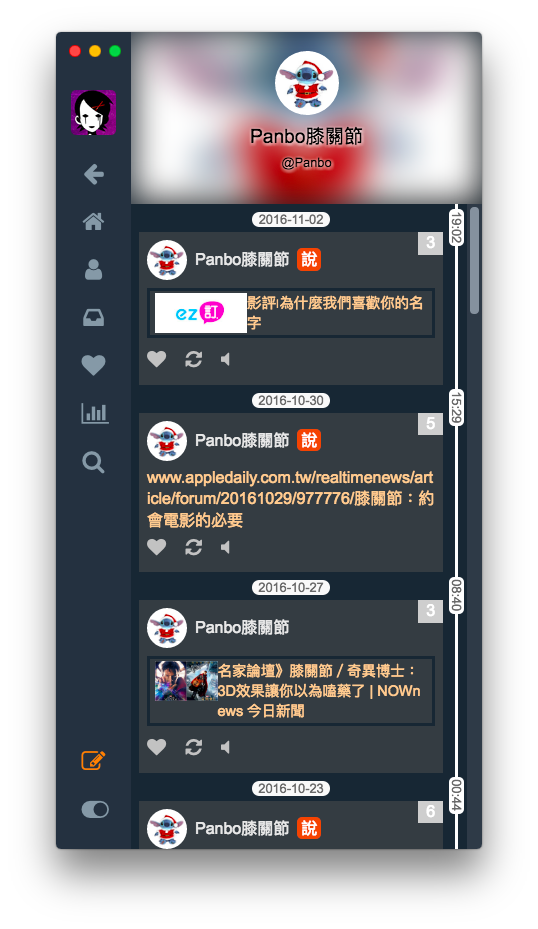
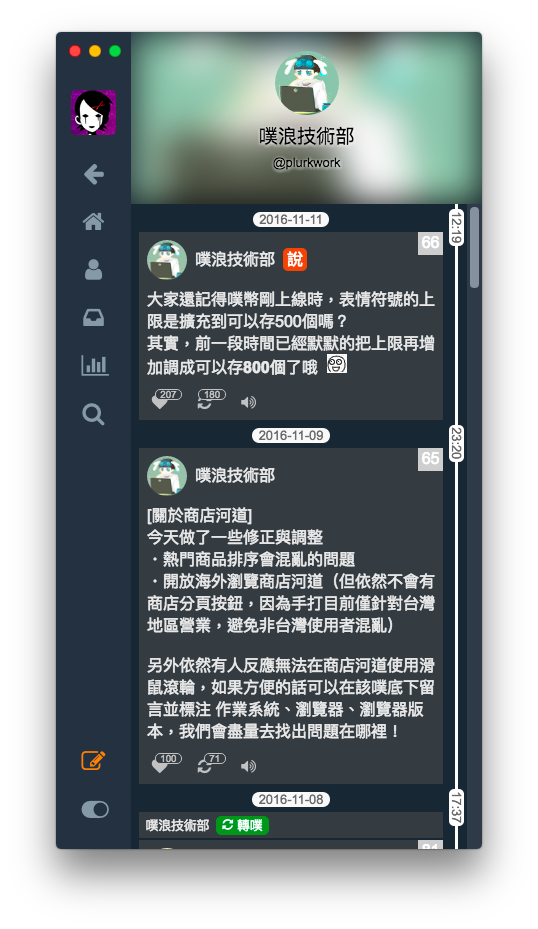
Update screentshots

diff --git a/README.md b/README.md
@@ -1,4 +1,4 @@
-# Puraku 你最愛的噗浪終於登陸 macOS 啦！
+# Puraku 你最愛的噗浪終於登陸 macOS啦！
 
 跟噗浪官方 iOS App 有 87% 像的電腦版噗浪 App！
 
@@ -10,9 +10,10 @@
 
 ## Screentshots
 
-<img src="./docs/images/light-mode-profile.png" alt="" width="230">
-<img src="./docs/images/dark-mode-profile.png" alt="" width="230">
-<img src="./docs/images/responses.png" alt="" width="230">
+<img src="./docs/images/light-mode-profile.png?" alt="" width="350">
+<img src="./docs/images/dark-mode-profile.png?" alt="" width="350">
+<img src="./docs/images/responses.png?" alt="" width="350">
+<img src="./docs/images/dark-mode-user-plurks.png?" alt="" width="350">
 
 ## Development
 
